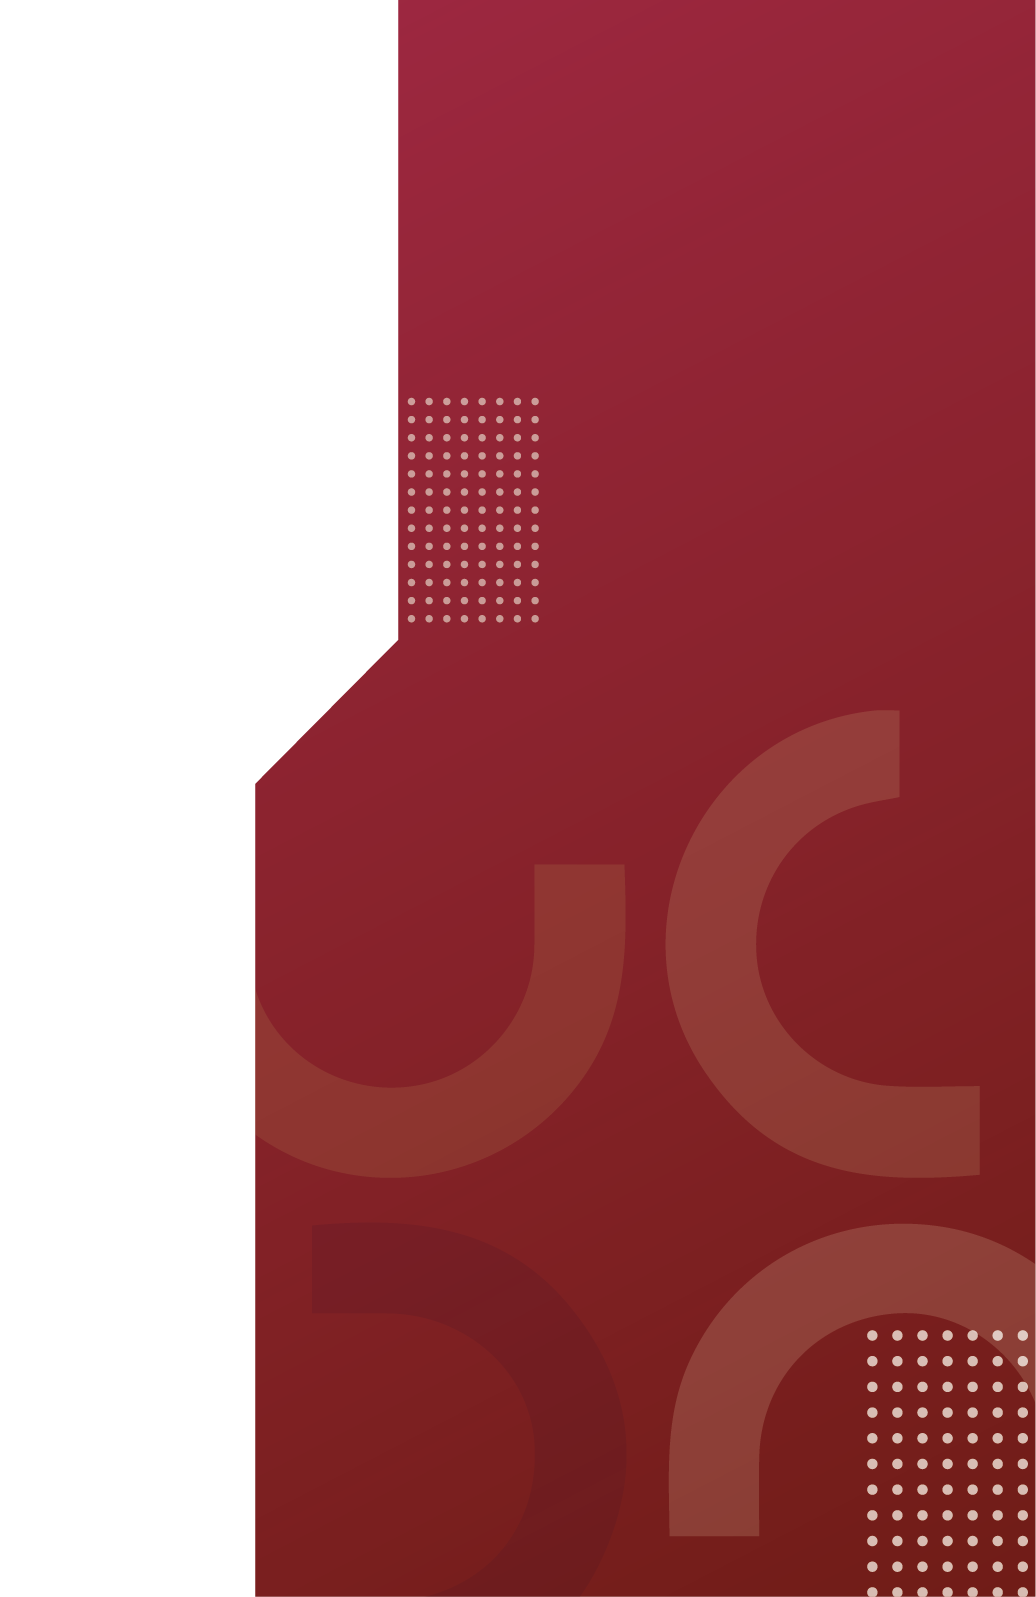
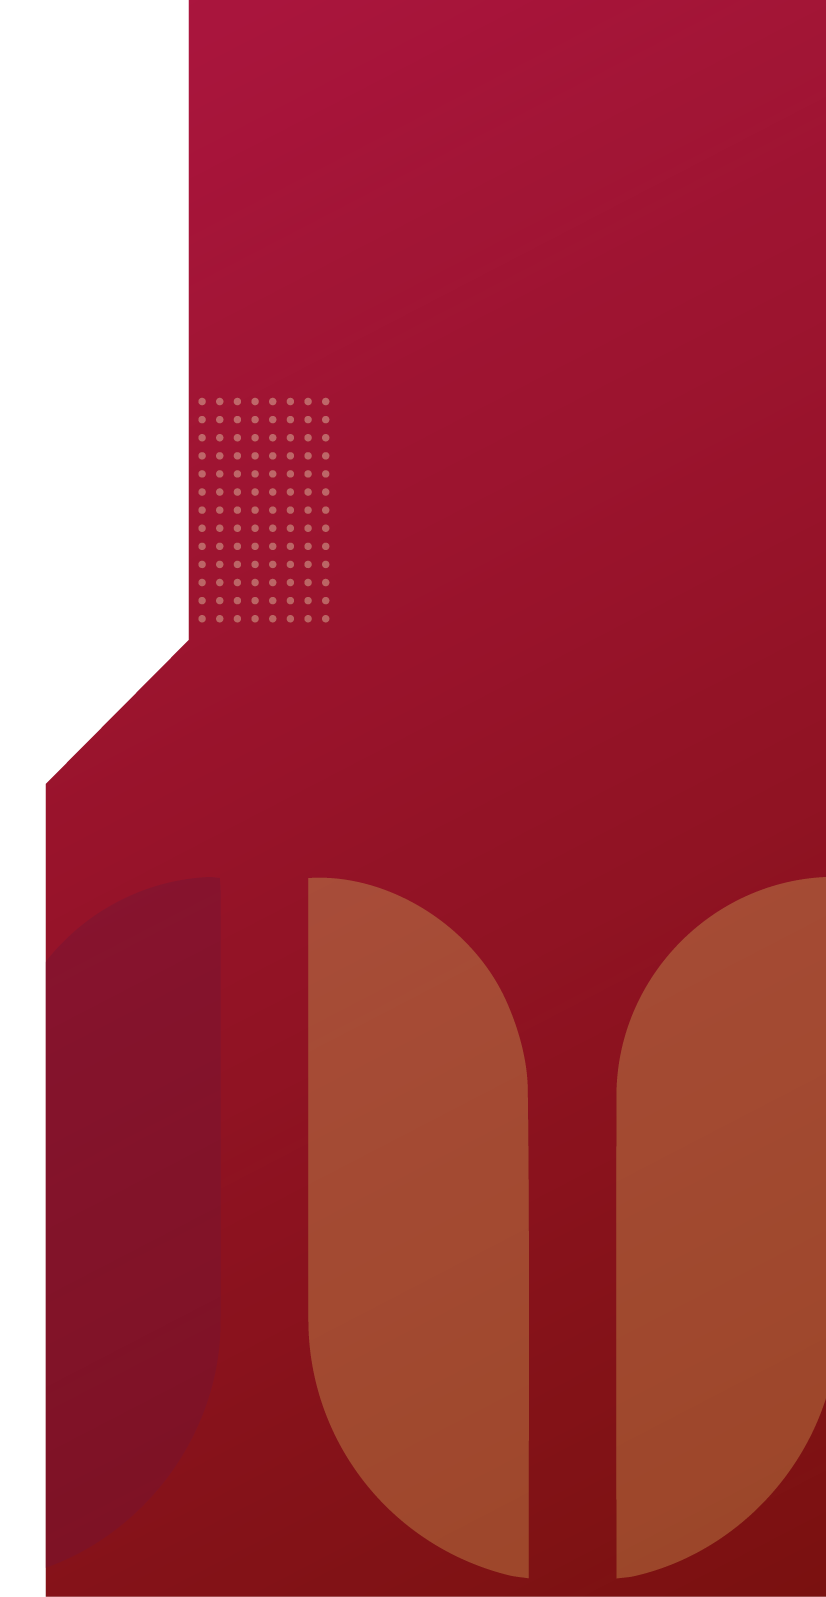
se realizo el cambio del index a la version del 21-feb por parte de la sep

diff --git a/css/style.css b/css/style.css
@@ -36,20 +36,28 @@
         #contenedor-menu 
         {
             position: absolute;
-            width: 30%;  
+            width: 20%;
+            /*width: 35%;  */
             height: 100%;
             right: 0;
-            background: url('img/Marco_derecho.png') center center / cover no-repeat; 
+            background: url('../img/Marco_derecho.png') center center / cover no-repeat; 
         }
+        
 
         
 
         .texto
          {
             font-size: 20px;
+            color: white;
             
         }
-
+        .texto_derecha
+        {
+            text-align: right; /* Alinea el contenido (en este caso, los botones) hacia el lado derecho */            
+            /*object-fit: contain;*/
+            color: white;
+        }
         #contenedor-texto
         {
             position: absolute;
@@ -60,29 +68,31 @@
             margin-left: 5%;
             margin-bottom: 2%; /* Ajusta el margen inferior según sea necesario */
         }
-
+/******************************************************************************/
         
         #contenedor-logo-fese
         {
             position: absolute;
-            width: 100%;
+            width: 90%;
             height: 20%;
-            margin-left:35%; /* Ajusta el margen izquierdo según sea necesario */
+            margin-left:10%; /* Ajusta el margen izquierdo según sea necesario */
             
             z-index: 1;
-            margin-top: 50%; /* Ajusta el margen inferior según sea necesario */
+            margin-top: 48em; /* Ajusta el margen inferior según sea necesario */
         }
 
         #logo-imagen-fese
         {
             position: absolute;
              /* Ajusta el margen superior según sea necesario */
-            width: 40%; /* Ajusta el ancho de la imagen según sea necesario */
+            width: 90%; /* Ajusta el ancho de la imagen según sea necesario */
             height: 50%; /* Ajusta la altura de la imagen según sea necesario */
             object-fit: contain;
            
           
         }
+
+        /*******************************************************/
 		 #contenedor-logo-sep
         {
             position: absolute;
@@ -90,7 +100,7 @@
             height: 20%;
             z-index: 1;
             left: 0;            
-            margin-top: 2%; /* Ajusta el margen superior según sea necesario */
+            margin-top: 2em; /* Ajusta el margen superior según sea necesario */
             margin-left: 5%;
         } 
 
@@ -98,8 +108,8 @@
         #logo-imagen-sep
         {
             position: absolute;           
-            width: 50%; 
-            height: 70%; 
+            width: 80%; 
+            height: 80%; 
             object-fit: contain;
         }
         #logo-imagen-foros    
@@ -113,7 +123,7 @@
         #contenedor-logo-foros
         {
             position: absolute;
-            width: 50%;
+            width:65%;
             height: 20%;
             /*z-index: 1;*/
             right: 6%;            
@@ -123,14 +133,61 @@
 
         #contenedor-botones
         {
-        /*position: absolute;*/
-            width: 55%;
-            height: 10%;
-            margin-left: 40%; /* Ajusta el margen izquierdo según sea necesario */
-            margin-top: 60%; /* Ajusta el margen superior según sea necesario */
+            position: absolute;
+            width: 85%;
+            height: 40%;
+            margin-left: 5%; /* Ajusta el margen izquierdo según sea necesario */
+            margin-top: 20em; /* Ajusta el margen superior según sea necesario */
             
             text-align: right; /* Alinea el contenido (en este caso, los botones) hacia el lado derecho */            
             /*object-fit: contain;*/
         }
+
+        #contenedor-logos-ies
+        {
+           /* 
+            
+            height: 20%;
+            */
+            /*z-index: 1;*/
+            margin-left:-10%;  
+        
+            /*position: fixed;*/
+            /*margin-top: -2; /* Ajusta el margen inferior según sea necesario */
+        }
+
+        #logos-imagen-ies
+        {
+            
+             /* Ajusta el margen superior según sea necesario */
+            width: 120%; /* Ajusta el ancho de la imagen según sea necesario */
+            /*height: 50%; /* Ajusta la altura de la imagen según sea necesario */
+            object-fit: contain;
+           
+          
+        }
+
+        @media (max-width: 500px) 
+        {
+            #contenedor-menu 
+            {
+                width: 40%;
+            }
+            .texto_derecha
+            {
+               font-size: 14px;
+               color: white;               
+            }
+            #logo-imagen-sep
+            {
+                        
+                width: 110%; 
+                
+                
+            }
+    
+        }
+
+
 
 		

diff --git a/index.html b/index.html
@@ -1,7 +1,5 @@
 <!DOCTYPE html>
 <html lang="es">
-<!-- Un comentario perron -->
-
 <head>
     <title>Foros de Vinculación &raquo; </title>
     <meta charset="UTF-8">
@@ -31,9 +29,6 @@
             padding: 0;
             overflow: hidden; /* Evita las barras de desplazamiento */
         }
-
-      
-       
     </style>
 </head>
 <body>
@@ -53,28 +48,55 @@
         <p class="texto">
             Con base a los avances y retos en materia de Educación Dual, Emprendimiento Asociativo, Economía Social y Solidaria y Servicio Social. 
         </p>
+        
+       
+        <div  id = "contenedor-logos-ies">
+            <img   id = "logos-imagen-ies" src="img/Tira_de_Logos_IES.png" alt="Logo">
+        </div>
+        
     </div>
+    
+    
+        
 
 </div>
 
 <div id="contenedor-menu">
     <div id="contenedor-logo-foros">
         <img id="logo-imagen-foros" src="img/logo_2024.png" alt="Logo foros 2024">
-    </div>
-    
-    
+        <div id="contenedor-botones" >
 
-    
-    <div id="contenedor-botones" >
+            <h3 class=" texto_derecha">Regìstrate</h3><br>
+            <h3 class=" texto_derecha">Fechas y sedes</h3><br>
+            <h3 class=" texto_derecha">Material descargable</h3><br>
+            <h3 class=" texto_derecha">FDV 2023</h3><br>
+            
+            <!--<lu class="texto texto_derecha" >
+                <li>Regìstrate</li>
+                <li>Fechas y sedes</li>
+                <li>Material descargable</li>
+                <li>FDV 2023</li>
+
+            </lu>-->
+            <!--<a href="agenda_2024.html" class="btn btn-outline-light">Fechas y sedes</a>
+            <br>
+            <br>
+            <b> </b><a href="registro.php" class="btn btn-outline-light">Registrate</a>-->
+           
+        </div>
+        
+    </div>
+    <div  id = "contenedor-logo-fese">
+        <img  id="logo-imagen-fese" src="img/ANUIES_FESE.png" alt="Logo">
+    </div>
+    <!--<div id="contenedor-botones" >
         <a href="agenda_2024.html" class="btn btn-outline-light">Fechas y sedes</a>
         <br>
         <br>
         <b> </b><a href="registro.php" class="btn btn-outline-light">Registrate</a>
-    </div>
+    </div>-->
 
-    <div  id = "contenedor-logo-fese">
-        <img  id="logo-imagen-fese" src="img/ANUIES_FESE.png" alt="Logo">
-    </div>
+    
 
     
 

diff --git a/contanciasForos2023/databases_usuario.php b/contanciasForos2023/databases_usuario.php
@@ -1,5 +1,5 @@
 <?php
-require_once('controller/conec.php');
+require_once('controller/config.php');
 $mysqli = new mysqli($servername, $username, $password, $dbname);
 $result ='';
 if( $mysqli->connect_errno)
